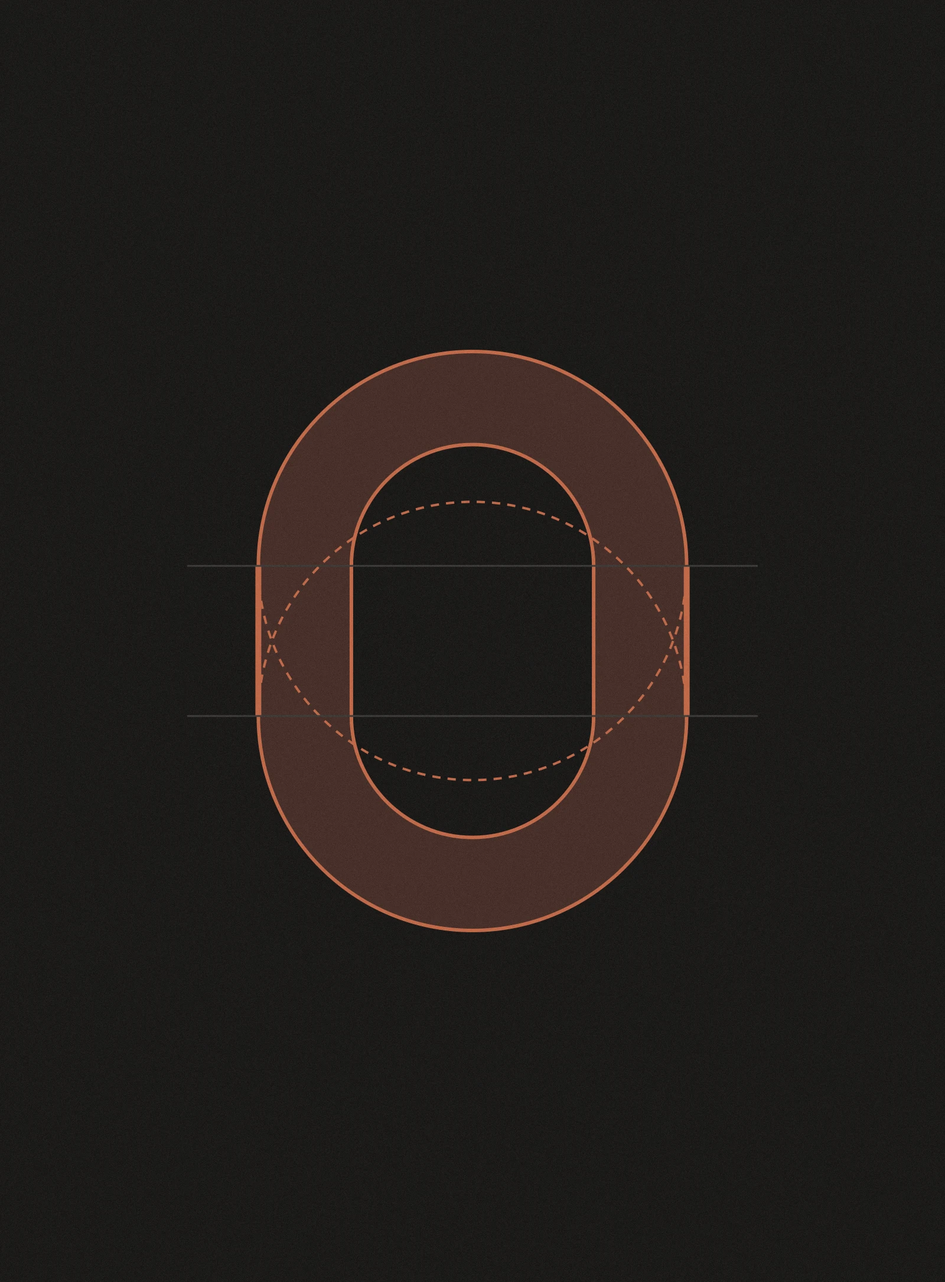
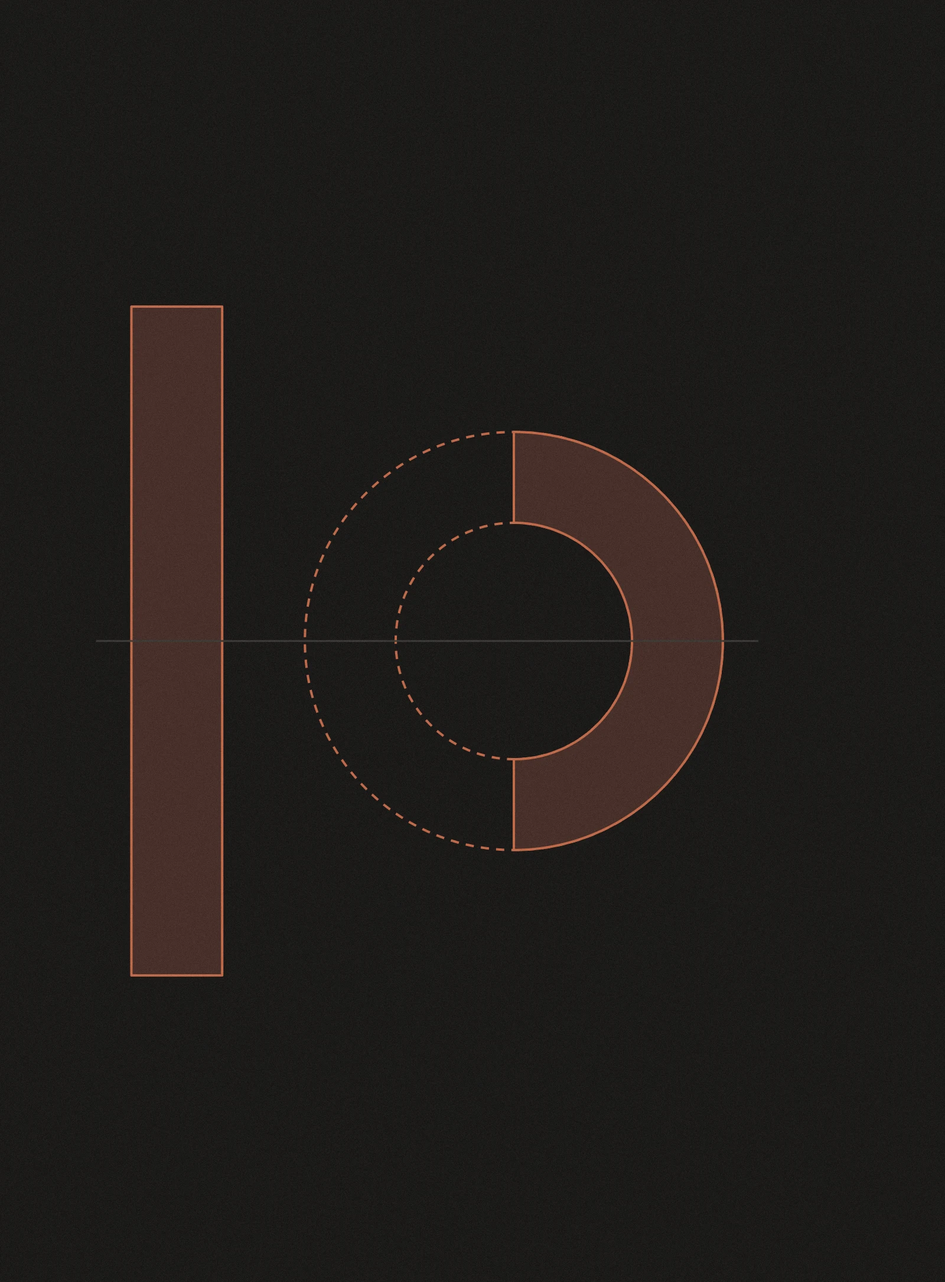
Arroyo details: system-level drawings and copy (draft)
Claude-Session: https://claude.ai/code/session_01DgXCbF1Q3YinTYdPZ8wfJm

Changed region(s): [[0.125, 0.2161, 0.7812, 0.7719]]

diff --git a/js/data.js b/js/data.js
@@ -41,10 +41,10 @@ export const TYPE = [
   { slug: 'arroyo', shopify: 'digital-product', heroSize: 110, name: 'Arroyo', display: 'ARROYO', family: 'Arroyo', scale: 0.9,
     descriptor: 'A fun, flowy slab', styles: [['Regular', 'Arroyo']], price: 10, tile: 'ochre',
     details: [
-      { img: 'type/arroyo-detail-1', text: 'One stroke, start to finish. Stems, slabs and bars all share the same weight.' },
-      { img: 'type/arroyo-detail-2', text: 'Rounds are drawn like river stones: two half circles joined by straight sides.' },
-      { img: 'type/arroyo-detail-3', text: 'No sharp diagonals in the M. The strokes pour down instead, like water off a ledge.' },
-      { img: 'type/arroyo-detail-4', text: 'Crossbars don’t sit still. The H tilts, and runs right past its stems.' },
+      { img: 'type/arroyo-detail-1', text: 'Everything is drawn with one stroke. Stack six and you’ve got a capital.' },
+      { img: 'type/arroyo-detail-2', text: 'Two parts do most of the work: a straight bar and a half circle, both one stroke wide.' },
+      { img: 'type/arroyo-detail-3', text: 'Where most slabs turn a corner, Arroyo bends. That’s the flow.' },
+      { img: 'type/arroyo-detail-4', text: 'Crossbars never sit level. They tilt, arch and wave.' },
     ] },
   { slug: 'bastrop', shopify: 'digital-product-1', heroSize: 115, lowercase: true, name: 'Bastrop', display: 'Bastrop', family: 'Bastrop', scale: 1,
     descriptor: 'A quirky, footed serif with ligatures',
